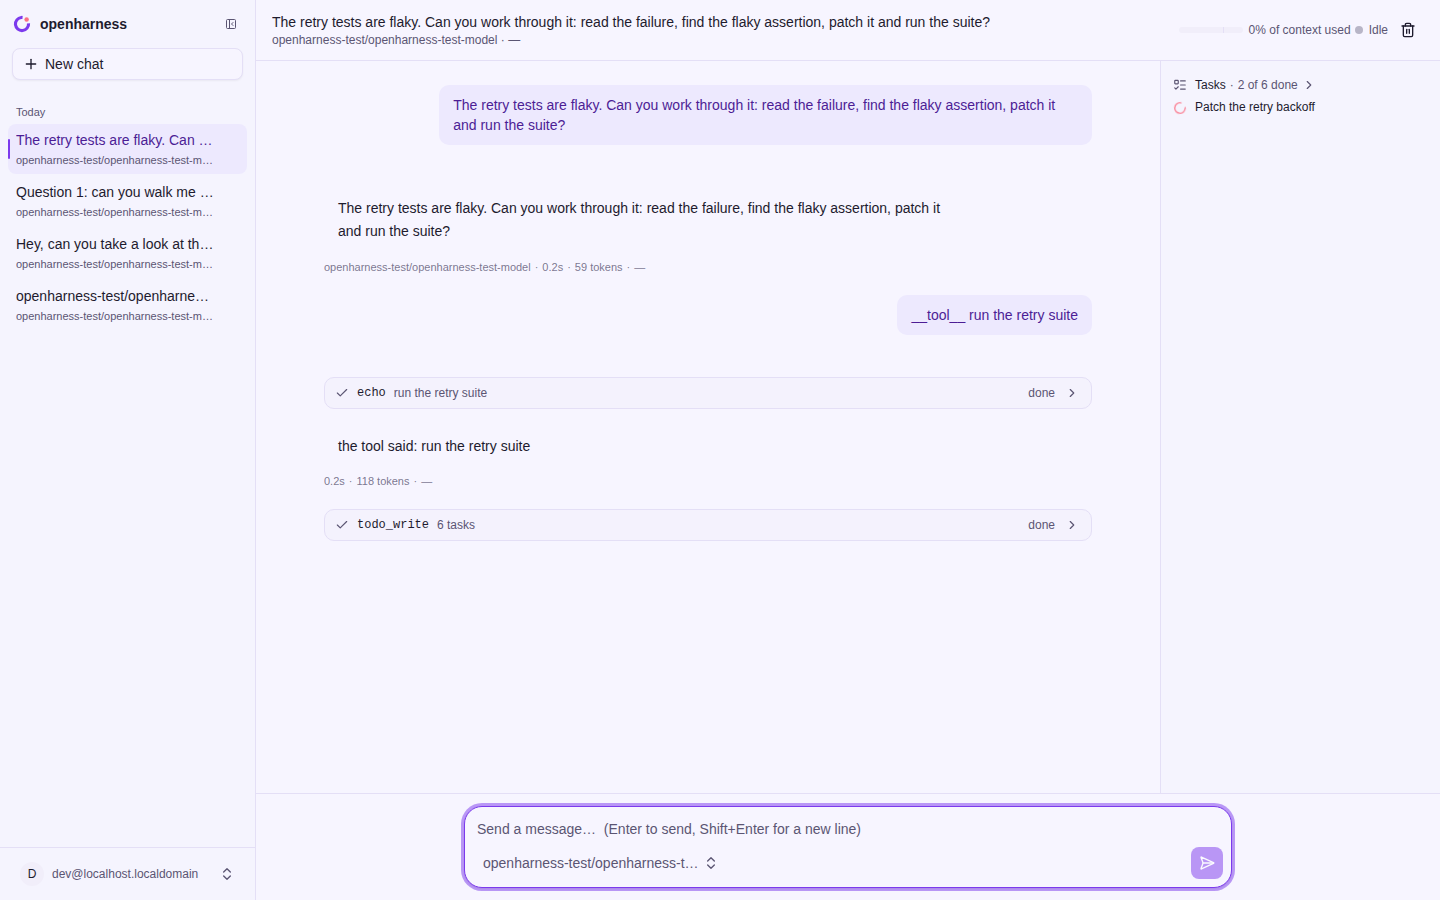
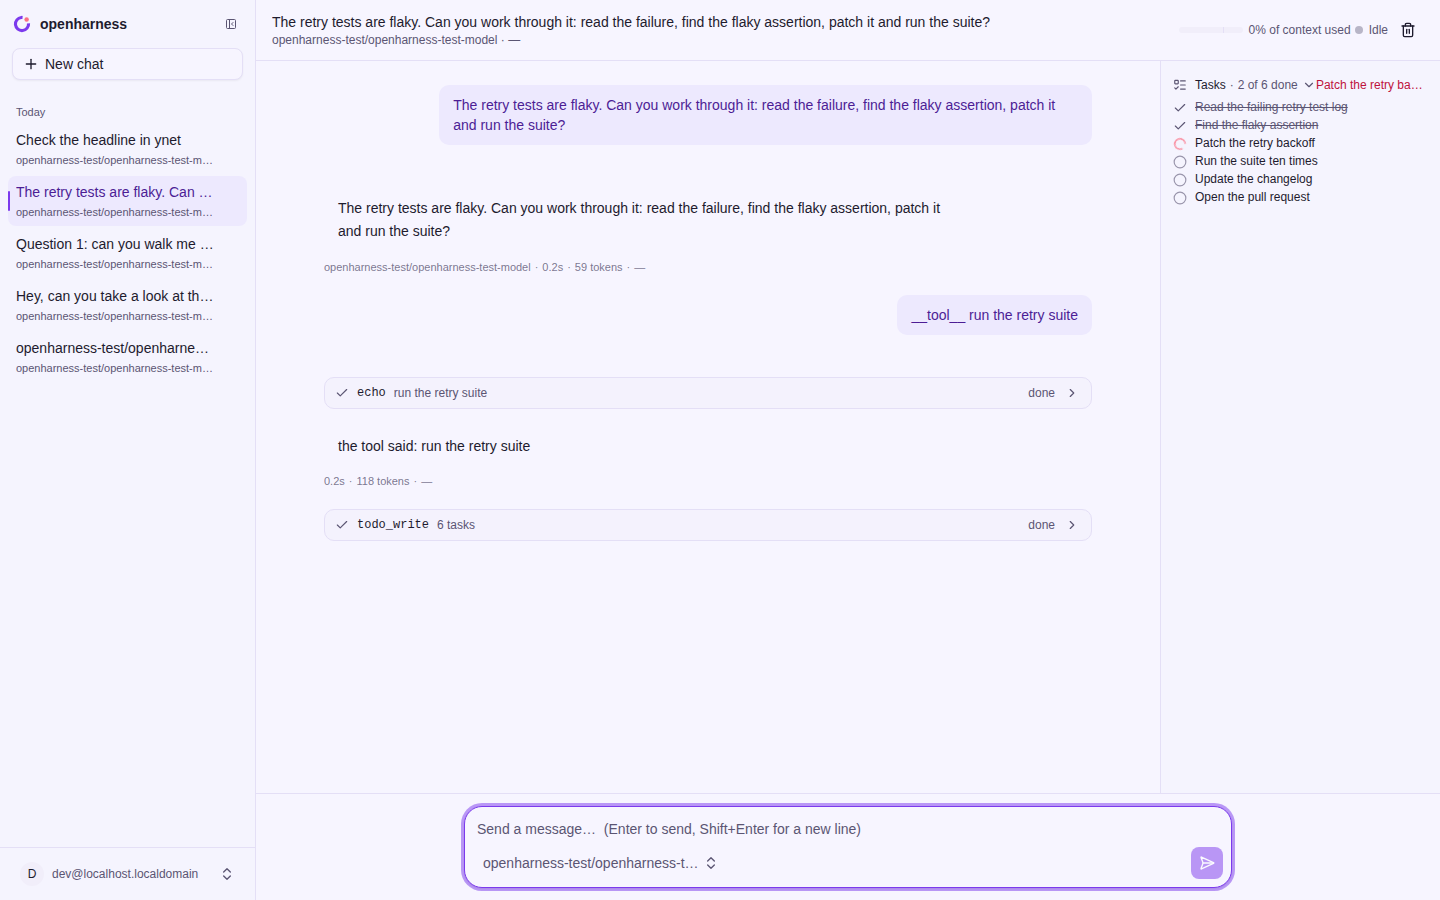
assets: the #314 task list, as it opens in each size
Re-taken against the final build: the side panel opens expanded and the row above
the composer opens folded for a six-item list, each one remembering the choice the
reader makes. The aria-expanded state was read back from the DOM in the same run,
so the table in the README is a measurement rather than a reading of the picture.

diff --git a/captures/staging-chat/README.md b/captures/staging-chat/README.md
@@ -7,18 +7,27 @@ screenshots are of the real bundle the server serves.
 
 ## The task list, on screen (item 2)
 
-`todo-panel-<width>-<theme>.png` — the panel as it opens, and `…-folded.png` the same chat after
-one click on the header's chevron. `todo-panel-1440-light-folded-after-reload.png` is the same
-chat **reloaded** with the fold still in place, which is the per-chat `localStorage` memory.
+`todo-panel-<width>-<theme>.png` is the panel **as it opens** in that size and theme,
+`…-toggled.png` the same chat after one click on the header's chevron, and `…-remembered.png`
+the same chat **reloaded** with that choice still in effect — which is the per-chat
+`localStorage` memory.
 
-| capture                                    | what it shows                                                                    |
-| ------------------------------------------ | -------------------------------------------------------------------------------- |
-| `todo-panel-1440-{light,dark}.png`         | **1440px**: the list as a 280px column **beside** the transcript, expanded        |
-| `todo-panel-1440-{light,dark}-folded.png`  | the same, folded to "Tasks · 2 of 6 done" and the item in progress                |
-| `todo-panel-1440-light-folded-after-reload.png` | reloaded: still folded — the state is remembered per chat                     |
-| `todo-panel-1024-{light,dark}.png`         | **1024px**: below `xl`, so the list is the **row above the composer**, expanded   |
-| `todo-panel-1024-{light,dark}-folded.png`  | the same, folded                                                                  |
-| `todo-panel-400-{light,dark}.png`          | **400px**: the row above the composer, folded by default (six items)              |
+| capture                                          | what it shows                                                                  |
+| ------------------------------------------------ | ------------------------------------------------------------------------------ |
+| `todo-panel-1440-{light,dark}.png`               | **1440px**: the list as a 280px column **beside** the transcript, open          |
+| `todo-panel-1440-{light,dark}-toggled.png`       | the same, folded to "Tasks · 2 of 6 done" and the item in progress              |
+| `todo-panel-1440-{light,dark}-remembered.png`    | reloaded: still folded — the choice is remembered per chat                      |
+| `todo-panel-1024-{light,dark}.png`               | **1024px**: below `xl`, so the list is the **row above the composer**, folded   |
+| `todo-panel-1024-{light,dark}-toggled.png`       | the same, opened — the six items, two struck through, the one in progress coral |
+| `todo-panel-1024-{light,dark}-remembered.png`    | reloaded: still open                                                            |
+| `todo-panel-400-{light,dark}.png`                | **400px**: the row above the composer, folded, on a phone-width page            |
+
+The three states were read back from the DOM rather than eyeballed, one run per size and theme:
+`aria-expanded` is `true` as the 1440 side panel opens and `false` after the click and after the
+reload, and `false` as the 1024 and 400 rows open and `true` after their click and reload —
+which is the rule the panel documents: the row above the composer starts folded once the list is
+longer than five items (it takes the conversation's height) while the side panel starts open (it
+does not).
 
 The list itself was put in the log by inserting one `agent.tool_use` (`todo_write`) and its
 `agent.tool_result` into the chat's event rows — the built server has no model in this sandbox
